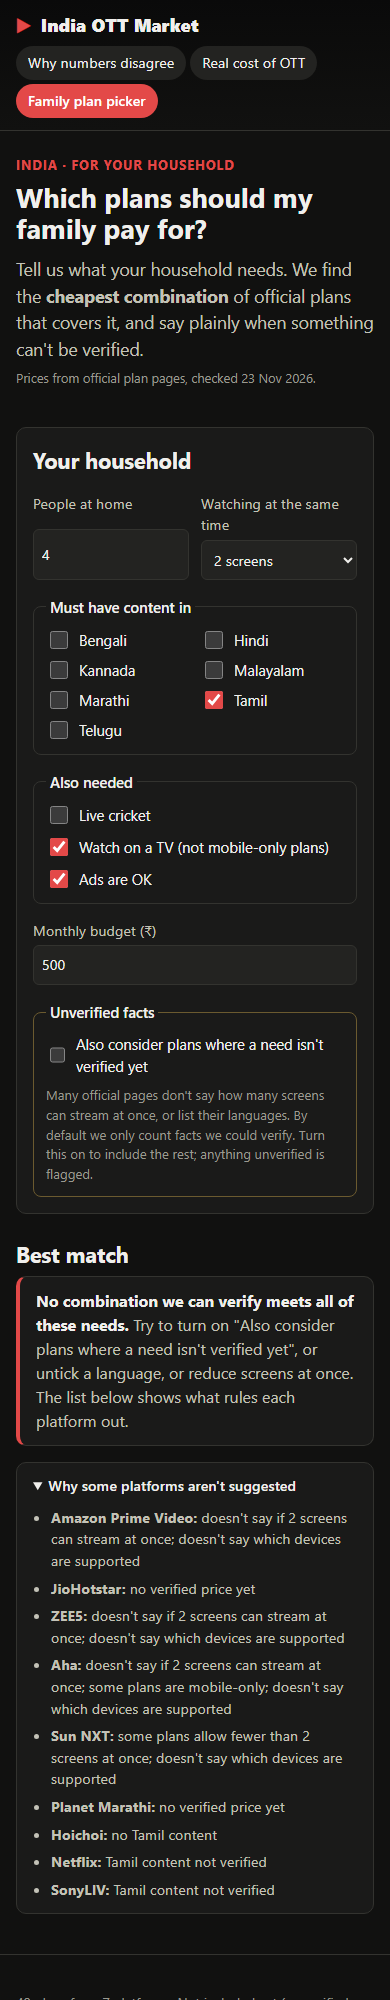
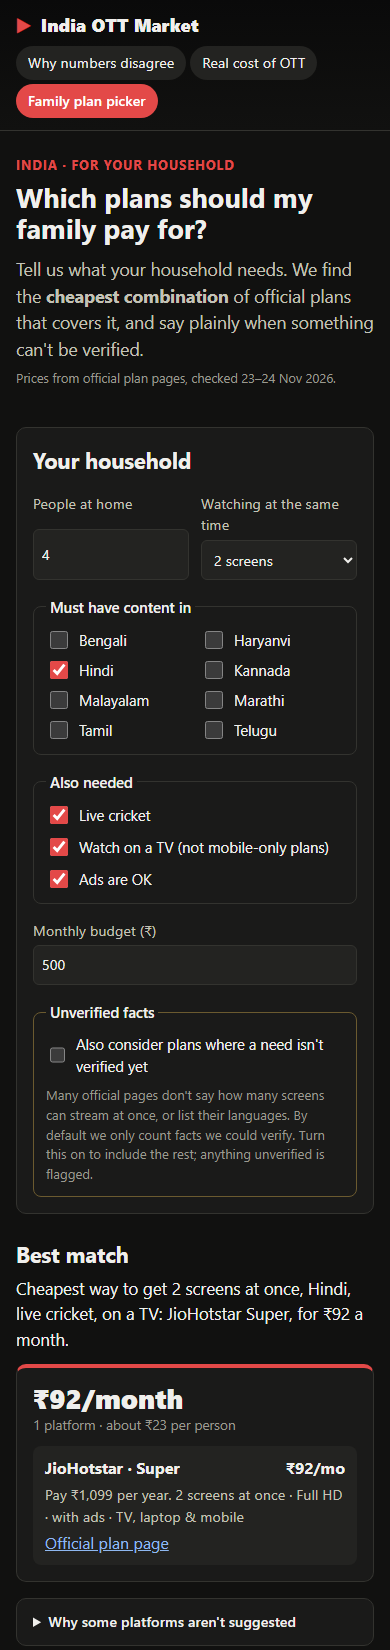
docs: refresh README screenshots from the live site (#25)
Picker (desktop + phone) now shows the JioHotstar Super result, the cost
page shows JioHotstar and the like-for-like bundle summary. Stale, unused
screenshots removed.

Changed region(s): [[0.0308, 0.0, 0.9538, 1.0], [0.8308, 0.9891, 0.8615, 1.0], [0.7385, 0.2473, 0.7692, 0.2782]]

diff --git a/README.md b/README.md
@@ -14,7 +14,7 @@ A data analytics project built on a hand-compiled, fully sourced dataset of Indi
 
 The numbers are rarely wrong. They count **different things** (people vs subscriptions vs households vs viewing share), on different dates, from sources with different incentives. This project records *what each number measures* and puts them side by side.
 
-![Page 1: Why do the numbers disagree?](docs/screenshots/page1-desktop.png)
+[![Page 1: Why do the numbers disagree? Stat tiles and the range of estimates for each platform](docs/screenshots/page1-desktop.png)](https://sangitazare.github.io/india-ott-dashboard/)
 
 ## Key findings
 
@@ -36,12 +36,24 @@ A static site (HTML + vanilla JavaScript + Chart.js) with three pages, **live at
 | **Real cost of OTT** | ₹ per screen per month; yearly vs monthly; ads vs ad-free; telecom bundles vs buying separately; every plan we checked |
 | **Family plan picker** | The cheapest combination of plans for your screens, languages, live cricket, ads and budget, with why other platforms were ruled out |
 
+### Family plan picker
+
+A Hindi-speaking family that wants **live cricket on 2 screens and a TV** gets **JioHotstar Super at ₹92/month**, with every fact verified on official pages.
+The picker never treats an unknown fact as "yes". A switch includes unverified facts, which are then flagged on the result.
+
 <p>
-  <img src="docs/screenshots/page2-desktop.png" width="49%" alt="Page 2: The real cost of OTT in India">
-  <img src="docs/screenshots/page3-desktop.png" width="49%" alt="Page 3: Family plan picker">
+  <a href="https://sangitazare.github.io/india-ott-dashboard/picker.html?lang=Hindi&cricket=1"><img src="docs/screenshots/page3-desktop.png" width="72%" alt="Family plan picker on desktop: Hindi + live cricket, 2 screens, TV, ₹500 budget → JioHotstar Super, ₹92 a month"></a>
+  <img src="docs/screenshots/page3-mobile.png" width="24%" alt="The same picker result on a phone">
 </p>
 
-The picker never treats an unknown fact as "yes". By default it only counts facts verified on official pages. A switch includes unverified facts, which are then flagged on the result.
+### The real cost of OTT
+
+Every plan converted to ₹ per month; per-screen cost; yearly vs monthly; ads vs ad-free. Telecom bundles are compared **like-for-like**, against the same tier bought separately.
+
+<p>
+  <a href="https://sangitazare.github.io/india-ott-dashboard/cost.html"><img src="docs/screenshots/page2-desktop.png" width="49%" alt="Cost page: headline tiles and rupees per screen per month"></a>
+  <img src="docs/screenshots/page2-bundles.png" width="49%" alt="Cost page: what we know about telecom bundles, and the like-for-like comparison">
+</p>
 
 ## How it works
 
